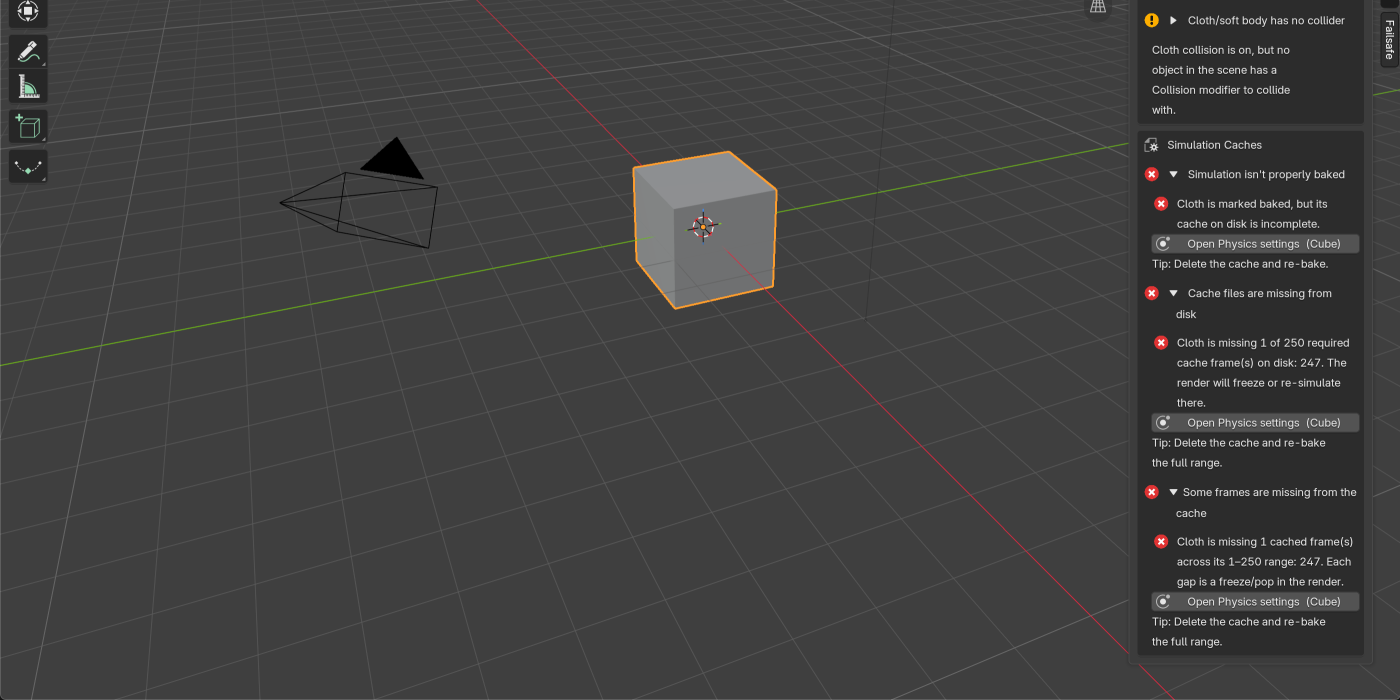
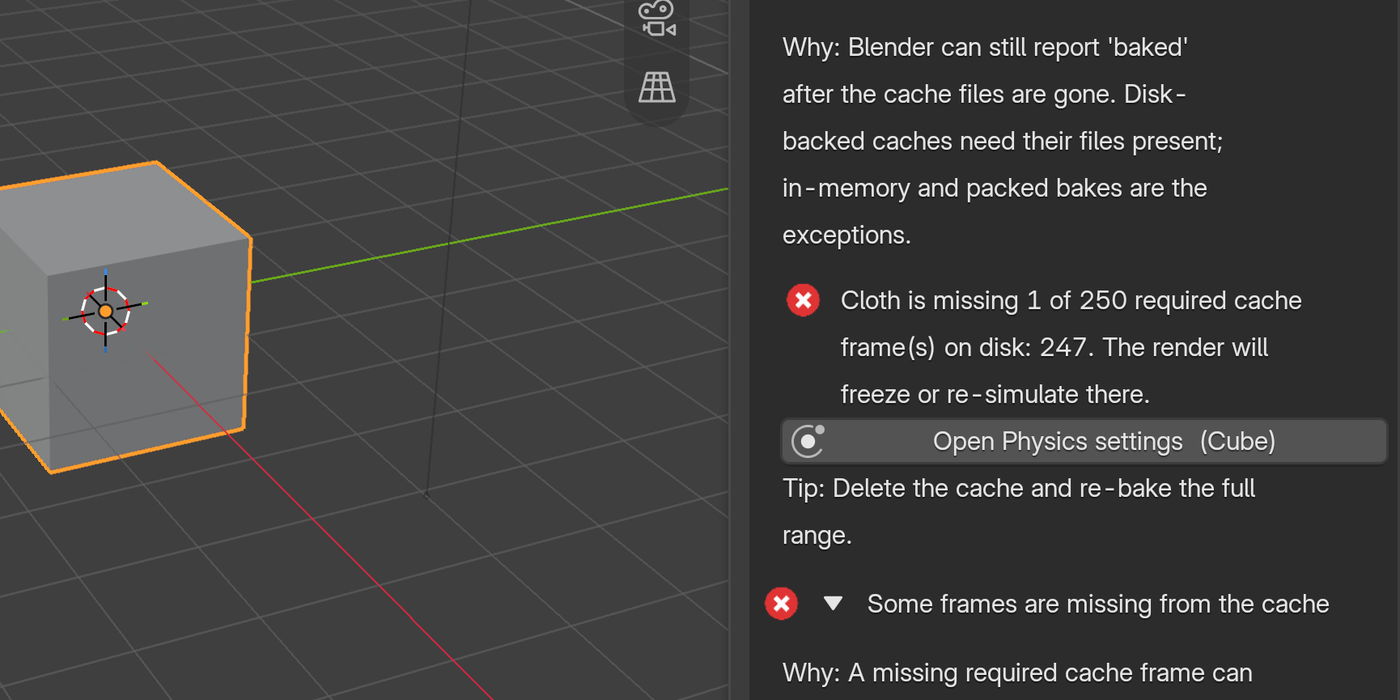
gallery: panel-dominant re-shoot of Featured, Problems, FPS Warning
Composition polish per review: the three findings-focused images had the
Failsafe sidebar squeezed into a thin strip, hard to read at thumbnail size.
Re-shot live from the same verified dfda2f7 build with the sidebar enlarged
(UI scale up, viewport maximized) so findings fill ~40-45% of the frame (was
~17%), 3D scene still visible. Genuine captures; crop + LANCZOS downscale only,
no pixel/text/count/finding altered. The .blend was never saved (read-only
guarantee intact; fps restored to 24 after the staged timing shot).

- featured: cube + "missing 1 of 250 required cache frame(s) on disk: 247"
- gallery_02_problems: 3/1/0 pills + collision WARNING explained + Tip
- gallery_03_timing_warning: #23 title wrap + "saved 24 FPS, scene is now 30 FPS"

Overview, Report, Breadth unchanged (accepted on the prior pass). Retina
sources retained as evidence in refresh_dfda2f7_wide/. GALLERY_README updated.

diff --git a/launch/gallery/GALLERY_README.md b/launch/gallery/GALLERY_README.md
@@ -13,6 +13,16 @@
 > check (unchanged → PASS, changed → WARNING), so the saved demo now scans
 > **3 fail · 1 warning · 0 couldn't verify · 9 pass · 13 N/A**.
 
+> **Composition pass (2026-11-15):** **Featured, Problems and FPS Warning** were
+> re-shot with the Failsafe sidebar enlarged (UI scale raised, 3D viewport
+> maximized) so the findings fill a much larger share of the frame and read at
+> storefront-thumbnail size — the findings now occupy roughly 40–45 % of each
+> image (vs ~17 % before). Still genuine captures of the real add-on on the same
+> reproducible scene; crop + downscale only, no pixel/text/count/finding altered.
+> **Overview, Report and Breadth are unchanged** (accepted on the prior pass). The
+> un-cropped retina sources for the three re-shot images are kept in
+> `refresh_dfda2f7_wide/`.
+
 ## Provenance (so the gallery is defensible)
 
 - **Captured from:** the actual installed extension `bl_ext.user_default.failsafe`
@@ -42,10 +52,10 @@ The featured image is also exported as **JPG, ~0.13 MB** (well under Superhive's
 
 | File | Feature it shows | The real result it proves |
 |---|---|---|
-| **featured.jpg / featured.png** | **Catches a missing cache frame — the headline moment.** | FAIL: "Cloth is **missing 1 of 250 required cache frame(s) on disk: 247**. The render will freeze or re-simulate there." Blender still calls it "baked." |
+| **featured.jpg / featured.png** | **Catches a missing cache frame — the headline moment.** *(Re-shot, panel-dominant.)* The finding fills the right ~45 % of the frame, the Cube still in view. | FAIL: "Cloth is **missing 1 of 250 required cache frame(s) on disk: 247**. The render will freeze or re-simulate there." Blender still calls it "baked." |
 | **gallery_01_overview.png** | **The one-click interface + summary.** Scan Scene, Export Text Report, Save Settings Baseline, Check before render, and the live count pills (**3 / 1 / 0** — no more permanent "?"). Titles are **left-aligned**. | A real scan summary shown as live counts: 3 fail, 1 warning, 0 couldn't-verify. |
-| **gallery_02_problems.png** | **Every problem explained in plain English, with a next step.** The three cache FAILs, each with a one-click **Open Physics settings (Cube)** and a Tip. | "Cloth is marked baked, but its cache on disk is incomplete" + both frame-**247** FAILs. |
-| **gallery_03_timing_warning.png** | **The new frame-rate timing check (#23) catching a change.** A **WARNING** after the scene frame rate was changed 24→30 FPS *after baking*. The long title **wraps onto two left-aligned lines** (the narrow-width title fix). | WARNING: "Frame rate changed since the baseline: saved 24 FPS, scene is now 30 FPS…" with a re-bake Tip. |
+| **gallery_02_problems.png** | **Every problem explained in plain English, with a next step.** *(Re-shot, panel-dominant.)* The **3 / 1 / 0** pills plus the collision WARNING with its full "Why" and a one-click **Open Physics settings (Cube)** + Tip; the cache FAILs follow below. | WARNING: "Cloth collision is on, but no object in the scene has a Collision modifier to collide with." + the 3 / 1 / 0 count pills (0 couldn't-verify). |
+| **gallery_03_timing_warning.png** | **The new frame-rate timing check (#23) catching a change.** *(Re-shot, panel-dominant.)* A **WARNING** after the scene frame rate was changed 24→30 FPS *after baking*. The long title **wraps onto two left-aligned lines** (the narrow-width title fix). | WARNING: "Frame rate changed since the baseline: saved 24 FPS, scene is now 30 FPS…" with a re-bake Tip. |
 | **gallery_04_report.png** | **Exports a shareable report** showing a **neutral file path**. | Report header: `File: /Users/Shared/failsafe_demo/failsafe ui test.blend` + `Summary: 3 Fail  1 Warning  0 Couldn't verify  9 Pass  13 N/A` and the honest "Couldn't verify = NOT a confirmed problem" note. |
 | **gallery_05_breadth.png** | **Breadth of the 26 checks.** The Physics-Setup checklist with green PASS rows, grey N/A rows, and the one WARNING — left-aligned titles. | A real checklist: PASS/N/A/WARNING rows across the Physics Setup group. |
 
@@ -61,11 +71,15 @@ Superhive's minimum is five.
 
 ## Evidence / originals
 
-The **un-cropped native captures** these were cropped from are retained as evidence
-in **`refresh_dfda2f7/`** (full-window / full-panel grabs, build `dfda2f7`, Blender
-5.2.3 LTS). The published images above are a straight crop + downscale of those —
-run `crop` with Pillow, LANCZOS downscale, no other edit. The prior-build published
-images remain recoverable from git history.
+The **un-cropped native captures** are retained as evidence:
+- `refresh_dfda2f7/` — first-pass full-window/full-panel grabs (source for the
+  accepted **Overview, Report, Breadth**).
+- `refresh_dfda2f7_wide/` — the 3420×2009 retina sources for the re-shot
+  **Featured, Problems, FPS Warning** (sidebar enlarged for readability).
+
+The published images are a straight crop + downscale of those (Pillow, LANCZOS, no
+other edit). The prior-build and prior-framing published images remain recoverable
+from git history.
 
 ## QA (done)
 
@@ -74,8 +88,12 @@ images remain recoverable from git history.
 - **Uniform 2:1** at **1400 × 700** (≥ 1200 px wide) — confirmed.
 - **No usernames, private paths, notifications, or unrelated personal info.** The
   report's file path is the neutral `/Users/Shared/…`.
-- **Counts and findings match the live scan** — 3 / 1 / 0 on the saved state;
-  3 / 2 / 0 on the clearly-labeled staged timing shot.
+- **Counts and findings match the live scan** — 3 / 1 / 0 on the saved state
+  (Featured, Problems, Overview, Report, Breadth); 3 / 2 / 0 on the clearly-labeled
+  staged timing shot (FPS Warning).
+- **Findings are readable at thumbnail size** — on the three re-shot images the
+  sidebar fills ~40–45 % of the frame (vs ~17 % before), with the 3D scene still
+  visible; no warning, explanation or Tip is cropped off.
 - Featured is **JPG and < 5 MB** (~0.13 MB); the rest are PNG (both allowed).
 
 ## Still open (owner gates — not screenshots)
